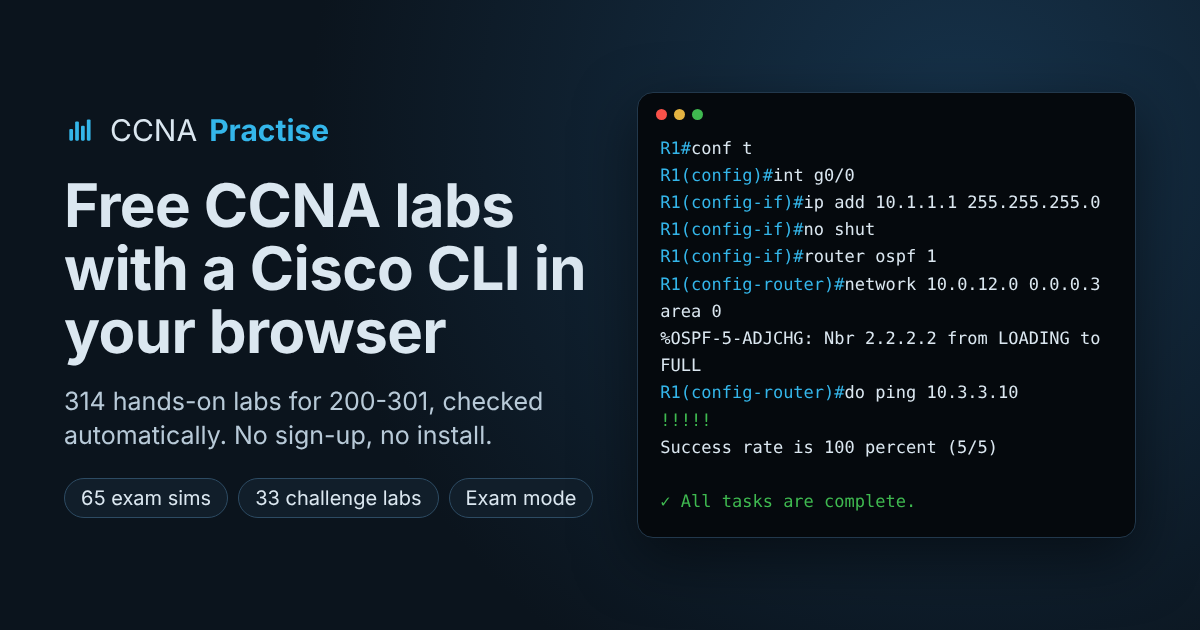
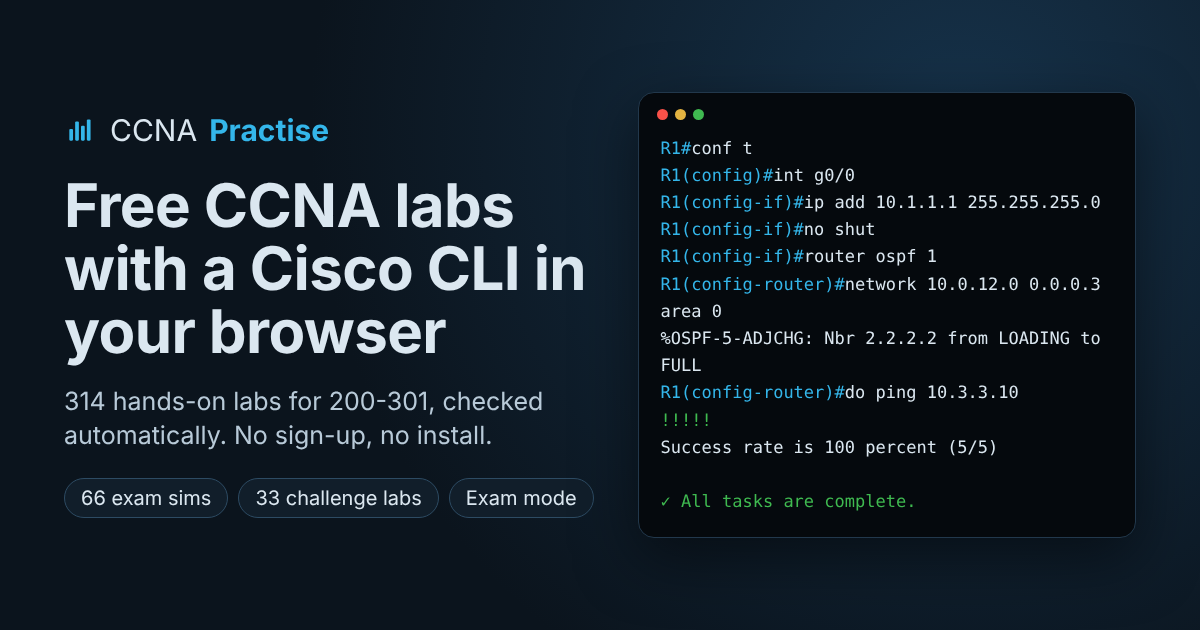
readme and preview image: 66 sims (the new challenge is one)
Claude-Session: https://claude.ai/code/session_01DKqSYpXcHfRcwFMhr8jyc9

diff --git a/README.md b/README.md
@@ -4,7 +4,7 @@
 
 **Free CCNA 200-301 labs with a Cisco IOS command line, right in your browser.**
 
-314 hands-on labs · 65 exam-style simulations · 33 challenge labs · 53 theory question sets · exam mode · no sign-up, no install
+314 hands-on labs · 66 exam-style simulations · 33 challenge labs · 53 theory question sets · exam mode · no sign-up, no install
 
 ### [Open the labs →](https://arpwatcher.github.io/CCNA-Practise-/)
 
